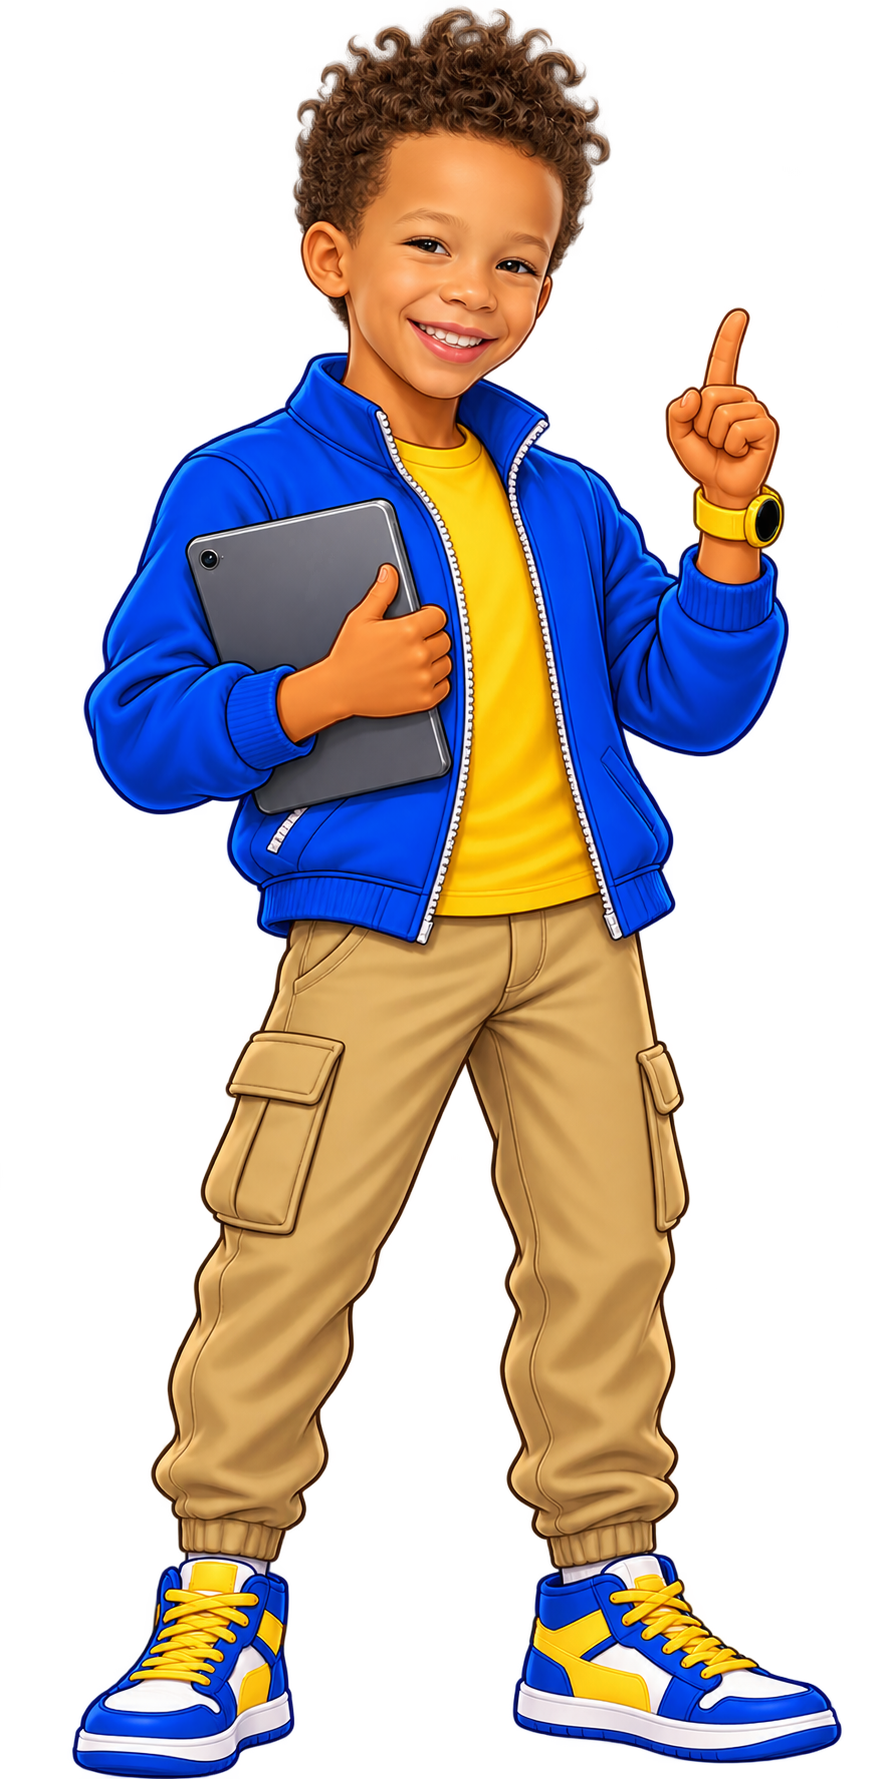
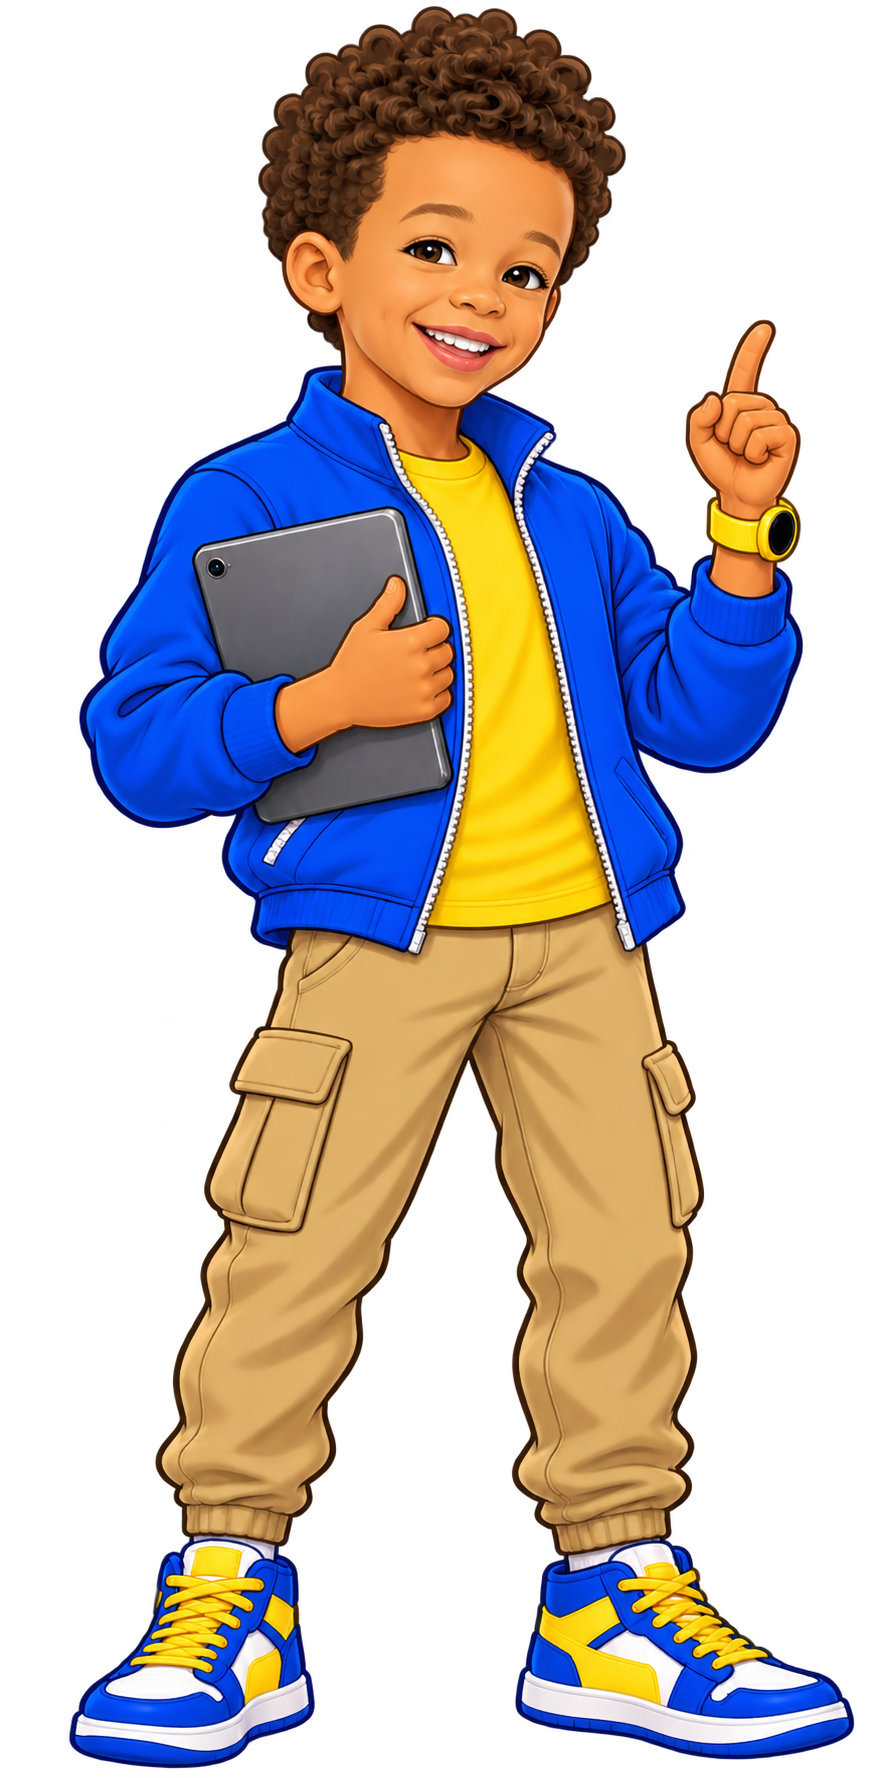
Refine Everest cartoon styling

Changed region(s): [[0.0611, 0.0, 0.9774, 1.0]]

diff --git a/money-ops/src/runner.js b/money-ops/src/runner.js
@@ -5,7 +5,7 @@ export class FinancialRunner{
  constructor(canvas,config,{characterId='maya',ownedItems=[],onUpdate=()=>{},onComplete=()=>{}}={}){
   this.canvas=canvas;this.ctx=canvas.getContext('2d');this.config=config;this.characterId=characterId;this.ownedItems=new Set(ownedItems);this.onUpdate=onUpdate;this.onComplete=onComplete;this.reduced=matchMedia('(prefers-reduced-motion: reduce)').matches;
   this.width=960;this.height=360;this.ground=292;this.entities=[];this.particles=[];this.popups=[];this.keys=new Set();this.running=false;this.paused=false;this.completed=false;this.last=0;this.spawnIn=1.55;this.rewardIn=.45;this.powerIn=11;this.boxIn=5;this.speed=155*config.difficulty;this.distance=0;this.lives=config.maxLives;this.coins=0;this.collected=0;this.bonusMoney=0;this.xp=0;this.score=0;this.avoided=0;this.combo=0;this.powerUpsUsed=0;this.invulnerable=0;this.companionShield=this.ownedItems.has('companion');this.activePower=null;this.state='idle';this.stateTime=0;this.vocabularyIndex=0;this.vocabularySeen=[];this.vocabEvent=null;this.vocabSerial=0;this.player={x:112,y:this.ground-124,w:82,h:124,vy:0,grounded:true,duck:false};
-  this.startedAt=0;this.endAt=0;this.lastHud=0;this.pendingStart=null;this.imageReady=false;this.imageFailed=false;this.image=new Image();this.image.onload=()=>{this.imageReady=true;if(this.pendingStart!==null){const pending=this.pendingStart;this.pendingStart=null;this.start(pending);}};this.image.onerror=()=>{this.imageFailed=true;if(this.pendingStart!==null){const pending=this.pendingStart;this.pendingStart=null;this.start(pending);}};this.image.src=new URL(`../assets/runner/${characterId}-right.png?v=43.0`,import.meta.url).href;this.imageReady=Boolean(this.image.complete&&this.image.naturalWidth);this.boundFrame=time=>this.frame(time);this.boundKeyDown=event=>this.keyDown(event);this.boundKeyUp=event=>this.keyUp(event);this.boundBlur=()=>this.setPaused(true);this.pointerStart=null;
+  this.startedAt=0;this.endAt=0;this.lastHud=0;this.pendingStart=null;this.imageReady=false;this.imageFailed=false;this.image=new Image();this.image.onload=()=>{this.imageReady=true;if(this.pendingStart!==null){const pending=this.pendingStart;this.pendingStart=null;this.start(pending);}};this.image.onerror=()=>{this.imageFailed=true;if(this.pendingStart!==null){const pending=this.pendingStart;this.pendingStart=null;this.start(pending);}};this.image.src=new URL(`../assets/runner/${characterId}-right.png?v=43.1`,import.meta.url).href;this.imageReady=Boolean(this.image.complete&&this.image.naturalWidth);this.boundFrame=time=>this.frame(time);this.boundKeyDown=event=>this.keyDown(event);this.boundKeyUp=event=>this.keyUp(event);this.boundBlur=()=>this.setPaused(true);this.pointerStart=null;
   const ratio=Math.min(2,window.devicePixelRatio||1);canvas.width=this.width*ratio;canvas.height=this.height*ratio;this.ctx.setTransform(ratio,0,0,ratio,0,0);canvas.style.aspectRatio=`${this.width}/${this.height}`;
   canvas.addEventListener('pointerdown',event=>{this.pointerStart={x:event.clientX,y:event.clientY,time:Date.now()};});
   canvas.addEventListener('pointerup',event=>{const start=this.pointerStart;if(!start)return;const dy=event.clientY-start.y;if(dy>38)this.duck(.65);else this.jump();this.pointerStart=null;});

diff --git a/src/runner.js b/src/runner.js
@@ -5,7 +5,7 @@ export class FinancialRunner{
  constructor(canvas,config,{characterId='maya',ownedItems=[],onUpdate=()=>{},onComplete=()=>{}}={}){
   this.canvas=canvas;this.ctx=canvas.getContext('2d');this.config=config;this.characterId=characterId;this.ownedItems=new Set(ownedItems);this.onUpdate=onUpdate;this.onComplete=onComplete;this.reduced=matchMedia('(prefers-reduced-motion: reduce)').matches;
   this.width=960;this.height=360;this.ground=292;this.entities=[];this.particles=[];this.popups=[];this.keys=new Set();this.running=false;this.paused=false;this.completed=false;this.last=0;this.spawnIn=1.55;this.rewardIn=.45;this.powerIn=11;this.boxIn=5;this.speed=155*config.difficulty;this.distance=0;this.lives=config.maxLives;this.coins=0;this.collected=0;this.bonusMoney=0;this.xp=0;this.score=0;this.avoided=0;this.combo=0;this.powerUpsUsed=0;this.invulnerable=0;this.companionShield=this.ownedItems.has('companion');this.activePower=null;this.state='idle';this.stateTime=0;this.vocabularyIndex=0;this.vocabularySeen=[];this.vocabEvent=null;this.vocabSerial=0;this.player={x:112,y:this.ground-124,w:82,h:124,vy:0,grounded:true,duck:false};
-  this.startedAt=0;this.endAt=0;this.lastHud=0;this.pendingStart=null;this.imageReady=false;this.imageFailed=false;this.image=new Image();this.image.onload=()=>{this.imageReady=true;if(this.pendingStart!==null){const pending=this.pendingStart;this.pendingStart=null;this.start(pending);}};this.image.onerror=()=>{this.imageFailed=true;if(this.pendingStart!==null){const pending=this.pendingStart;this.pendingStart=null;this.start(pending);}};this.image.src=new URL(`../assets/runner/${characterId}-right.png?v=43.0`,import.meta.url).href;this.imageReady=Boolean(this.image.complete&&this.image.naturalWidth);this.boundFrame=time=>this.frame(time);this.boundKeyDown=event=>this.keyDown(event);this.boundKeyUp=event=>this.keyUp(event);this.boundBlur=()=>this.setPaused(true);this.pointerStart=null;
+  this.startedAt=0;this.endAt=0;this.lastHud=0;this.pendingStart=null;this.imageReady=false;this.imageFailed=false;this.image=new Image();this.image.onload=()=>{this.imageReady=true;if(this.pendingStart!==null){const pending=this.pendingStart;this.pendingStart=null;this.start(pending);}};this.image.onerror=()=>{this.imageFailed=true;if(this.pendingStart!==null){const pending=this.pendingStart;this.pendingStart=null;this.start(pending);}};this.image.src=new URL(`../assets/runner/${characterId}-right.png?v=43.1`,import.meta.url).href;this.imageReady=Boolean(this.image.complete&&this.image.naturalWidth);this.boundFrame=time=>this.frame(time);this.boundKeyDown=event=>this.keyDown(event);this.boundKeyUp=event=>this.keyUp(event);this.boundBlur=()=>this.setPaused(true);this.pointerStart=null;
   const ratio=Math.min(2,window.devicePixelRatio||1);canvas.width=this.width*ratio;canvas.height=this.height*ratio;this.ctx.setTransform(ratio,0,0,ratio,0,0);canvas.style.aspectRatio=`${this.width}/${this.height}`;
   canvas.addEventListener('pointerdown',event=>{this.pointerStart={x:event.clientX,y:event.clientY,time:Date.now()};});
   canvas.addEventListener('pointerup',event=>{const start=this.pointerStart;if(!start)return;const dy=event.clientY-start.y;if(dy>38)this.duck(.65);else this.jump();this.pointerStart=null;});

diff --git a/money-ops/src/app.js b/money-ops/src/app.js
@@ -15,7 +15,7 @@ const money=n=>new Intl.NumberFormat('en-US',{style:'currency',currency:'USD',ma
 const escape=s=>String(s).replace(/[&<>"']/g,c=>({'&':'&amp;','<':'&lt;','>':'&gt;','"':'&quot;',"'":'&#39;'}[c]));
 const button=(text,action,cls='',extra='')=>`<button class="${cls}" data-action="${action}" ${extra}>${text}</button>`;
 function progress(){const next=nextRank(p.xp);const current=ranks.filter(r=>p.xp>=r[1]).at(-1);const pct=next?Math.min(100,(p.xp-current[1])/(next[1]-current[1])*100):100;return `<div class="xp-row"><span>${p.xp} XP</span><span>${next?`${next[1]-p.xp} TO ${next[0].toUpperCase()}`:'TOP RANK'}</span></div><div class="bar" role="progressbar" aria-label="Rank progress" aria-valuenow="${Math.round(pct)}" aria-valuemin="0" aria-valuemax="100"><i style="width:${pct}%"></i></div>`;}
-function header(){const arcade=p.mode==='arcade';return `<header><a class="brand" href="./" aria-label="Money Ops home"><span class="brand-mark">M<span>↗</span></span><span><small>FINANCIAL FREEDOM</small><b>MONEY OPS<span class="version"> / 43.0</span></b></span></a><div class="header-right"><span class="system ${arcade?'arcade-unsaved':''}"><i></i> ${arcade?'ARCADE MODE · NOT SAVED':'CAREER SAVED'}</span>${button(p.muted?'SOUND OFF':'SOUND ON','mute','utility',`aria-pressed="${!p.muted}" aria-label="${p.muted?'Enable':'Mute'} sound"`)}</div></header>`;}
+function header(){const arcade=p.mode==='arcade';return `<header><a class="brand" href="./" aria-label="Money Ops home"><span class="brand-mark">M<span>↗</span></span><span><small>FINANCIAL FREEDOM</small><b>MONEY OPS<span class="version"> / 43.1</span></b></span></a><div class="header-right"><span class="system ${arcade?'arcade-unsaved':''}"><i></i> ${arcade?'ARCADE MODE · NOT SAVED':'CAREER SAVED'}</span>${button(p.muted?'SOUND OFF':'SOUND ON','mute','utility',`aria-pressed="${!p.muted}" aria-label="${p.muted?'Enable':'Mute'} sound"`)}</div></header>`;}
 function playerPortrait(className='',id=p.avatar){return characters[id]?portrait(id,className):`<span class="avatar">${escape(id)}</span>`;}
 function runnerCharacterId(session=p?.runnerSession){if(p?.mode==='arcade')return p.avatar;const lesson=Math.max(1,Number(session?.lessonId)||1),offset=session?.phase==='post'?1:0;return castIds[(lesson-1+offset)%castIds.length];}
 const bonusItems=[{id:'boots',name:'BOOST BOOTS',price:5,icon:'⇧',detail:'Jump higher.'},{id:'magnet',name:'COIN MAGNET',price:10,icon:'◎',detail:'Pull coins closer.'},{id:'companion',name:'PENNY THE MONEY DRAGON',price:15,icon:'🐲',detail:'Your original Money Ops sidekick blocks one hit.'}];

diff --git a/src/app.js b/src/app.js
@@ -15,7 +15,7 @@ const money=n=>new Intl.NumberFormat('en-US',{style:'currency',currency:'USD',ma
 const escape=s=>String(s).replace(/[&<>"']/g,c=>({'&':'&amp;','<':'&lt;','>':'&gt;','"':'&quot;',"'":'&#39;'}[c]));
 const button=(text,action,cls='',extra='')=>`<button class="${cls}" data-action="${action}" ${extra}>${text}</button>`;
 function progress(){const next=nextRank(p.xp);const current=ranks.filter(r=>p.xp>=r[1]).at(-1);const pct=next?Math.min(100,(p.xp-current[1])/(next[1]-current[1])*100):100;return `<div class="xp-row"><span>${p.xp} XP</span><span>${next?`${next[1]-p.xp} TO ${next[0].toUpperCase()}`:'TOP RANK'}</span></div><div class="bar" role="progressbar" aria-label="Rank progress" aria-valuenow="${Math.round(pct)}" aria-valuemin="0" aria-valuemax="100"><i style="width:${pct}%"></i></div>`;}
-function header(){const arcade=p.mode==='arcade';return `<header><a class="brand" href="./" aria-label="Money Ops home"><span class="brand-mark">M<span>↗</span></span><span><small>FINANCIAL FREEDOM</small><b>MONEY OPS<span class="version"> / 43.0</span></b></span></a><div class="header-right"><span class="system ${arcade?'arcade-unsaved':''}"><i></i> ${arcade?'ARCADE MODE · NOT SAVED':'CAREER SAVED'}</span>${button(p.muted?'SOUND OFF':'SOUND ON','mute','utility',`aria-pressed="${!p.muted}" aria-label="${p.muted?'Enable':'Mute'} sound"`)}</div></header>`;}
+function header(){const arcade=p.mode==='arcade';return `<header><a class="brand" href="./" aria-label="Money Ops home"><span class="brand-mark">M<span>↗</span></span><span><small>FINANCIAL FREEDOM</small><b>MONEY OPS<span class="version"> / 43.1</span></b></span></a><div class="header-right"><span class="system ${arcade?'arcade-unsaved':''}"><i></i> ${arcade?'ARCADE MODE · NOT SAVED':'CAREER SAVED'}</span>${button(p.muted?'SOUND OFF':'SOUND ON','mute','utility',`aria-pressed="${!p.muted}" aria-label="${p.muted?'Enable':'Mute'} sound"`)}</div></header>`;}
 function playerPortrait(className='',id=p.avatar){return characters[id]?portrait(id,className):`<span class="avatar">${escape(id)}</span>`;}
 function runnerCharacterId(session=p?.runnerSession){if(p?.mode==='arcade')return p.avatar;const lesson=Math.max(1,Number(session?.lessonId)||1),offset=session?.phase==='post'?1:0;return castIds[(lesson-1+offset)%castIds.length];}
 const bonusItems=[{id:'boots',name:'BOOST BOOTS',price:5,icon:'⇧',detail:'Jump higher.'},{id:'magnet',name:'COIN MAGNET',price:10,icon:'◎',detail:'Pull coins closer.'},{id:'companion',name:'PENNY THE MONEY DRAGON',price:15,icon:'🐲',detail:'Your original Money Ops sidekick blocks one hit.'}];

diff --git a/index.html b/index.html
@@ -1,2 +1,2 @@
 <!doctype html>
-<html lang="en"><head><meta charset="utf-8"><meta name="viewport" content="width=device-width,initial-scale=1"><meta name="theme-color" content="#101816"><link rel="icon" type="image/svg+xml" href="favicon.svg"><title>Financial Freedom: Money Ops — The Financial Runner</title><link rel="stylesheet" href="style.css?v=43.0"></head><body><a class="skip" href="#main">Skip to game</a><div id="app"></div><div id="announcer" class="sr" role="status" aria-live="polite"></div><script type="module" src="src/app.js?v=43.0"></script></body></html>
+<html lang="en"><head><meta charset="utf-8"><meta name="viewport" content="width=device-width,initial-scale=1"><meta name="theme-color" content="#101816"><link rel="icon" type="image/svg+xml" href="favicon.svg"><title>Financial Freedom: Money Ops — The Financial Runner</title><link rel="stylesheet" href="style.css?v=43.1"></head><body><a class="skip" href="#main">Skip to game</a><div id="app"></div><div id="announcer" class="sr" role="status" aria-live="polite"></div><script type="module" src="src/app.js?v=43.1"></script></body></html>

diff --git a/money-ops/index.html b/money-ops/index.html
@@ -1,2 +1,2 @@
 <!doctype html>
-<html lang="en"><head><meta charset="utf-8"><meta name="viewport" content="width=device-width,initial-scale=1"><meta name="theme-color" content="#101816"><link rel="icon" type="image/svg+xml" href="favicon.svg"><title>Financial Freedom: Money Ops — The Financial Runner</title><link rel="stylesheet" href="style.css?v=43.0"></head><body><a class="skip" href="#main">Skip to game</a><div id="app"></div><div id="announcer" class="sr" role="status" aria-live="polite"></div><script type="module" src="src/app.js?v=43.0"></script></body></html>
+<html lang="en"><head><meta charset="utf-8"><meta name="viewport" content="width=device-width,initial-scale=1"><meta name="theme-color" content="#101816"><link rel="icon" type="image/svg+xml" href="favicon.svg"><title>Financial Freedom: Money Ops — The Financial Runner</title><link rel="stylesheet" href="style.css?v=43.1"></head><body><a class="skip" href="#main">Skip to game</a><div id="app"></div><div id="announcer" class="sr" role="status" aria-live="polite"></div><script type="module" src="src/app.js?v=43.1"></script></body></html>

diff --git a/money-ops/tests/runner-engine.test.js b/money-ops/tests/runner-engine.test.js
@@ -53,7 +53,7 @@ test('the run ends when the player collects the 100th reward',()=>{
 
 test('the selected character art is loaded and the kid-friendly pace accelerates gently',()=>{
  const game=harness(1,'pre').runner;
- assert.match(game.image._src,/assets\/runner\/maya-right\.png\?v=43\.0$/);
+ assert.match(game.image._src,/assets\/runner\/maya-right\.png\?v=43\.1$/);
  assert.equal(game.player.w,82);
  assert.equal(game.player.h,124);
  assert.equal(game.speed,155);
@@ -75,7 +75,7 @@ test('Money Boxes add bonus dollars and owned items change play',()=>{
  assert.equal(game.runner.companionShield,true);
  game.runner.invulnerable=0;game.runner.hitObstacle({x:200,y:240,w:50,h:50,done:false});
  assert.equal(game.runner.lives,3,'the original companion blocks one collision');
- assert.match(game.runner.image._src,/assets\/runner\/ruby-right\.png\?v=43\.0$/);
+ assert.match(game.runner.image._src,/assets\/runner\/ruby-right\.png\?v=43\.1$/);
 });
 
 test('runner events publish lesson vocabulary for the side stream',()=>{

diff --git a/tests/runner-engine.test.js b/tests/runner-engine.test.js
@@ -53,7 +53,7 @@ test('the run ends when the player collects the 100th reward',()=>{
 
 test('the selected character art is loaded and the kid-friendly pace accelerates gently',()=>{
  const game=harness(1,'pre').runner;
- assert.match(game.image._src,/assets\/runner\/maya-right\.png\?v=43\.0$/);
+ assert.match(game.image._src,/assets\/runner\/maya-right\.png\?v=43\.1$/);
  assert.equal(game.player.w,82);
  assert.equal(game.player.h,124);
  assert.equal(game.speed,155);
@@ -75,7 +75,7 @@ test('Money Boxes add bonus dollars and owned items change play',()=>{
  assert.equal(game.runner.companionShield,true);
  game.runner.invulnerable=0;game.runner.hitObstacle({x:200,y:240,w:50,h:50,done:false});
  assert.equal(game.runner.lives,3,'the original companion blocks one collision');
- assert.match(game.runner.image._src,/assets\/runner\/ruby-right\.png\?v=43\.0$/);
+ assert.match(game.runner.image._src,/assets\/runner\/ruby-right\.png\?v=43\.1$/);
 });
 
 test('runner events publish lesson vocabulary for the side stream',()=>{

diff --git a/money-ops/src/characters.js b/money-ops/src/characters.js
@@ -13,7 +13,7 @@ export const character=id=>characters[id]||characters.maya;
 
 export function portrait(id,className=''){
  const c=character(id);
- return `<img class="character-portrait ${className}" src="assets/cast/${c.image}?v=43.0" alt="${c.name}, ${c.role}">`;
+ return `<img class="character-portrait ${className}" src="assets/cast/${c.image}?v=43.1" alt="${c.name}, ${c.role}">`;
 }
 
 export function castPortraits(className='',ids=castIds){

diff --git a/src/characters.js b/src/characters.js
@@ -13,7 +13,7 @@ export const character=id=>characters[id]||characters.maya;
 
 export function portrait(id,className=''){
  const c=character(id);
- return `<img class="character-portrait ${className}" src="assets/cast/${c.image}?v=43.0" alt="${c.name}, ${c.role}">`;
+ return `<img class="character-portrait ${className}" src="assets/cast/${c.image}?v=43.1" alt="${c.name}, ${c.role}">`;
 }
 
 export function castPortraits(className='',ids=castIds){
